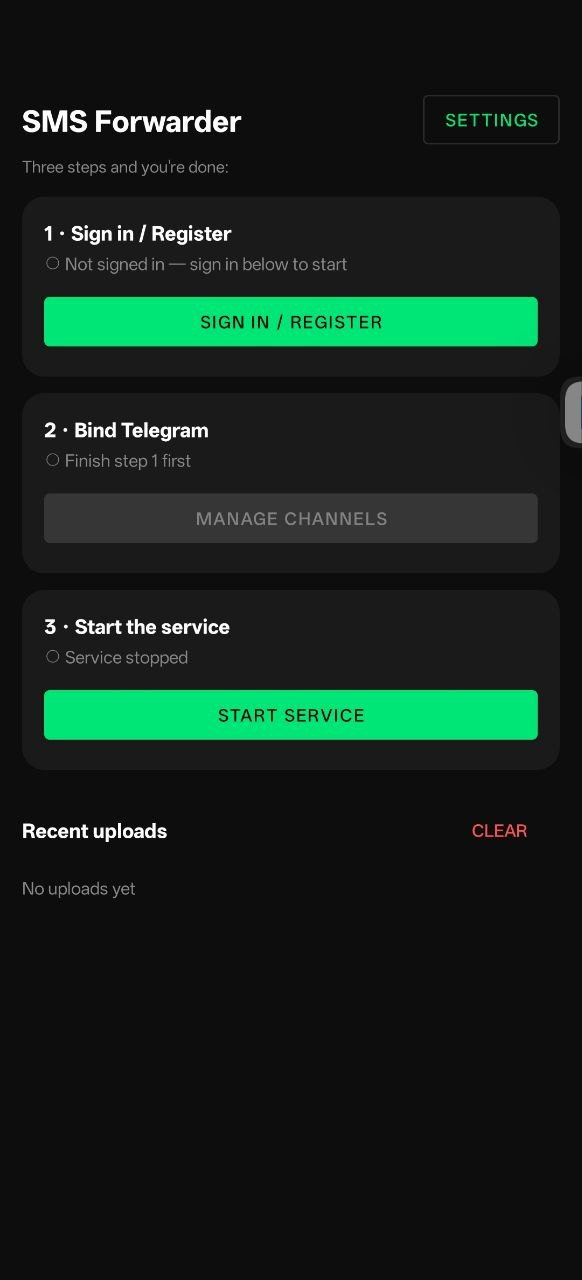
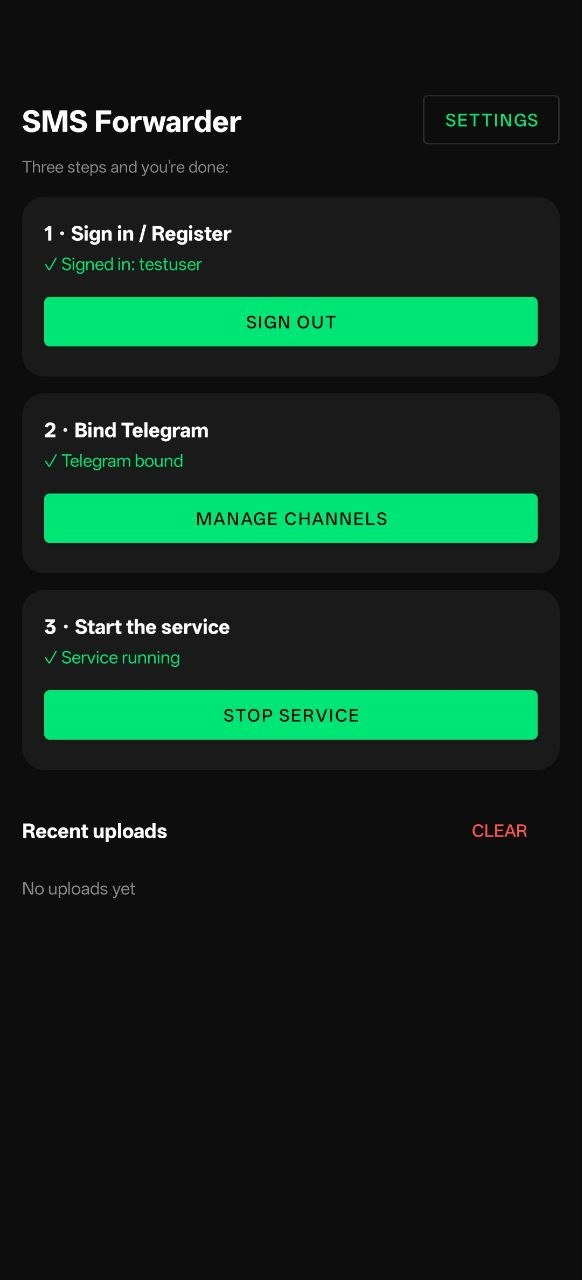
README: align copy to ready-to-use / ShuttleLab-operated backend; add second screenshot

diff --git a/README.md b/README.md
@@ -1,12 +1,12 @@
 <div align="center">
   <h1>SMS Forwarder</h1>
   <p>
-    <strong>Forward incoming SMS to your own server — reliably, in the background</strong>
+    <strong>Forward incoming SMS to your Telegram — reliably, in the background</strong>
   </p>
   <p>
-    Reads the text messages your phone receives and uploads each one to your self-hosted
-    backend, which relays it to your channels (Telegram). Built for a phone left plugged
-    in at home so your SMS follow you while you are away.
+    Reads the text messages your phone receives and uploads each one to the SMS Forwarder
+    backend, which relays it to your Telegram. Built for a phone left plugged in at home so
+    your SMS follow you while you are away.
   </p>
   <p>
     🌐 <a href="https://smsforwarder.shuttlelab.org">smsforwarder.shuttlelab.org</a>
@@ -14,6 +14,7 @@
     🔌 Backend: <a href="https://github.com/ShuttleLab/smsforwarder-api">smsforwarder-api</a>
   </p>
   <img src="docs/screenshot.jpg" alt="SMS Forwarder — home screen" width="300" />
+  <img src="docs/screenshot1.jpg" alt="SMS Forwarder — app screen" width="300" />
 </div>
 
 <div align="center">
@@ -28,9 +29,9 @@
 ## About
 
 SMS Forwarder is a small Android app that captures incoming SMS and **POSTs each one as
-JSON to your own backend**, which decides where to relay it. It is a deliberately **thin
-client**: it holds no channel tokens and talks to no messaging service directly — adding
-or changing channels is done on the server and never requires rebuilding the app.
+JSON to the SMS Forwarder backend**, which relays it to your Telegram. It is a deliberately
+**thin client**: it holds no channel tokens and talks to no messaging service directly —
+adding or changing channels is done on the server and never requires rebuilding the app.
 
 The design goal is reliability on a **plugged-in, unattended phone** — including on
 aggressive Chinese ROMs (Huawei / HarmonyOS) where background restrictions routinely break
@@ -39,7 +40,7 @@ naive SMS apps. It is **not** published to any app store; it is for personal use
 ## Key Features
 
 - **Real-time capture that survives aggressive ROMs** — an incoming-SMS broadcast receiver *plus* a foreground-service poll of the SMS inbox (every few seconds, configurable). Capture uses a monotonic `_id` cursor, so nothing is missed even where the system withholds SMS broadcasts or the message timestamp lags the phone clock.
-- **Thin client** — no Telegram/email tokens in the app; it only uploads to your backend. Channel routing lives server-side.
+- **Thin client** — no channel tokens in the app; it only uploads to the backend. Channel routing lives server-side.
 - **Reliable delivery** — each SMS is uploaded directly from the live foreground service (not via WorkManager, which Huawei throttles), retried until it succeeds; the server deduplicates with an idempotency key so nothing is delivered twice.
 - **Long-term survival** — persistent foreground service, auto-restart on boot, battery-optimization exemption, an OEM auto-start whitelist guide, and an optional "silent-audio" keep-alive for extra resistance to being killed.
 - **Guided setup** — a clean three-step home screen: ① sign in / register → ② bind Telegram → ③ start the service, each with a ✓ when done.
@@ -58,10 +59,13 @@ naive SMS apps. It is **not** published to any app store; it is for personal use
 
 ## Getting Started
 
-### Requires the backend
+### Backend — already running
 
-This app needs its companion server, **smsforwarder-api**, reachable at the URL the app is
-built with (default `https://smsforwarder-api.shuttlelab.org`). See that project for setup.
+The released APK is preconfigured to talk to the **ShuttleLab-operated backend** at
+`smsforwarder-api.shuttlelab.org`, so it works out of the box — just install, sign in, and
+bind Telegram. If you build from source you can point it at another instance in the app's
+Settings (the companion server is
+[smsforwarder-api](https://github.com/ShuttleLab/smsforwarder-api)).
 
 ### Install
 
